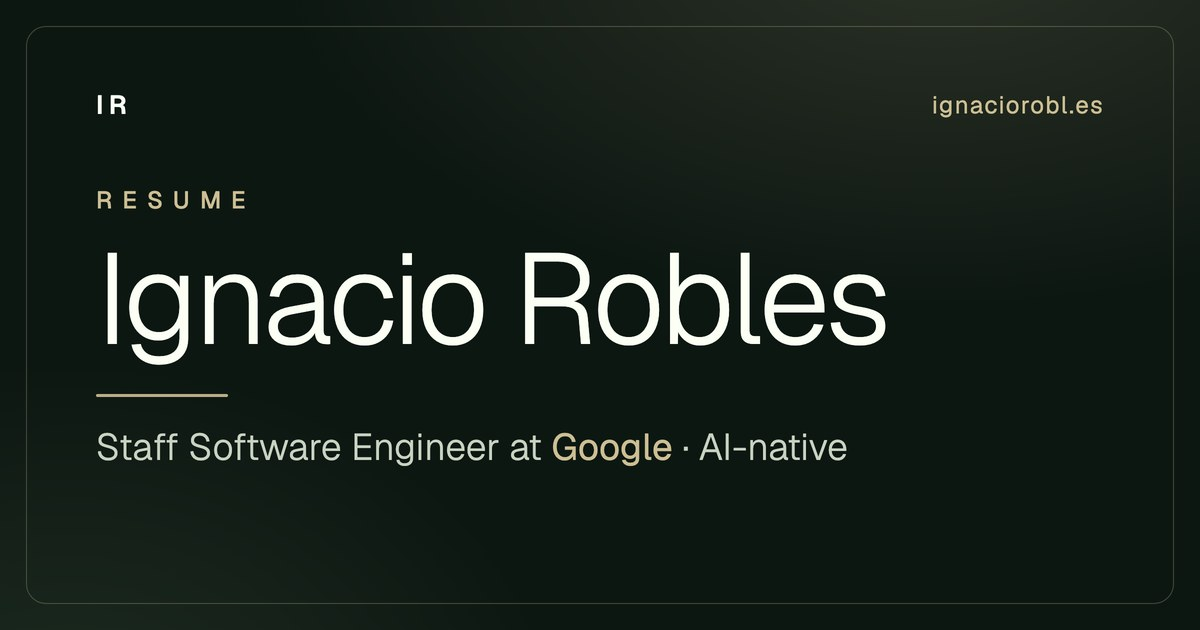
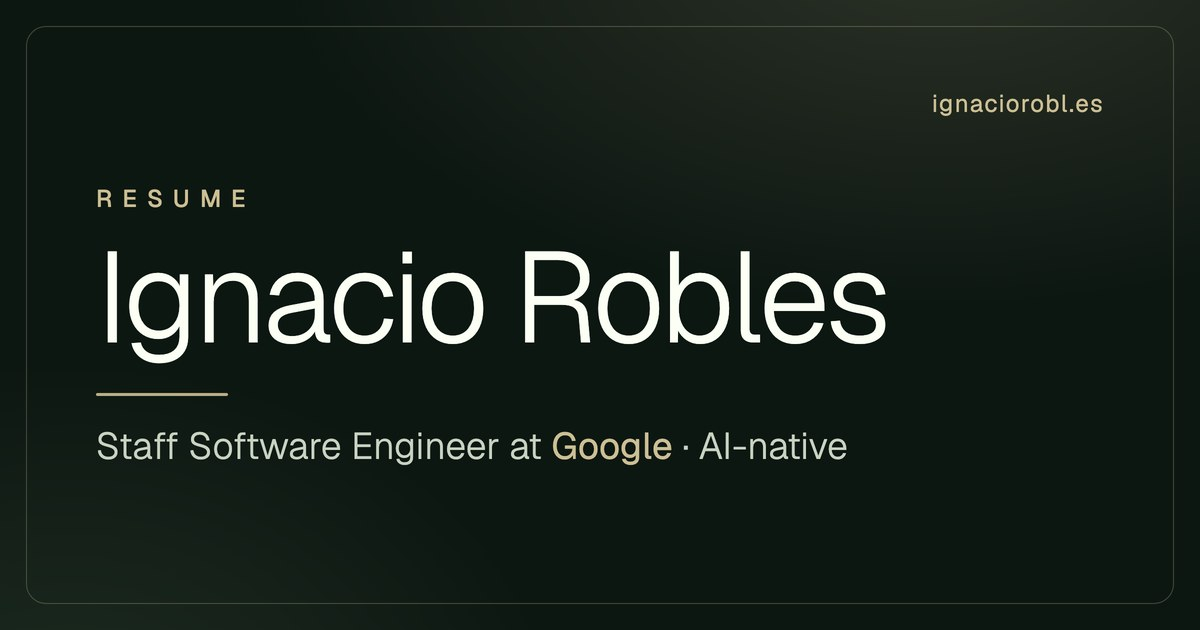
Drop the monogram from the resume share card too
Matches the home card; the name carries the identity at card size.

diff --git a/og-src/og-card.html b/og-src/og-card.html
@@ -11,8 +11,7 @@
     color:#fbfff4;position:relative}
   .frame{position:absolute;inset:26px;border:1px solid rgba(205,191,148,.28);border-radius:20px}
   .wrap{position:absolute;inset:0;padding:88px 96px;display:flex;flex-direction:column;justify-content:space-between}
-  .top{display:flex;align-items:center;justify-content:space-between}
-  .mono{font-weight:600;font-size:26px;letter-spacing:.22em;color:#fbfff4}
+  .top{display:flex;align-items:center;justify-content:flex-end}
   .site{font-size:24px;letter-spacing:.06em;color:#cdbf94}
   .mid{margin-top:auto;margin-bottom:auto}
   .eyebrow{font-size:24px;letter-spacing:.42em;text-transform:uppercase;color:#cdbf94;font-weight:500}
@@ -24,7 +23,6 @@
 <div class="frame"></div>
 <div class="wrap">
   <div class="top">
-    <span class="mono">IR</span>
     <span class="site">ignaciorobl.es</span>
   </div>
   <div class="mid">
